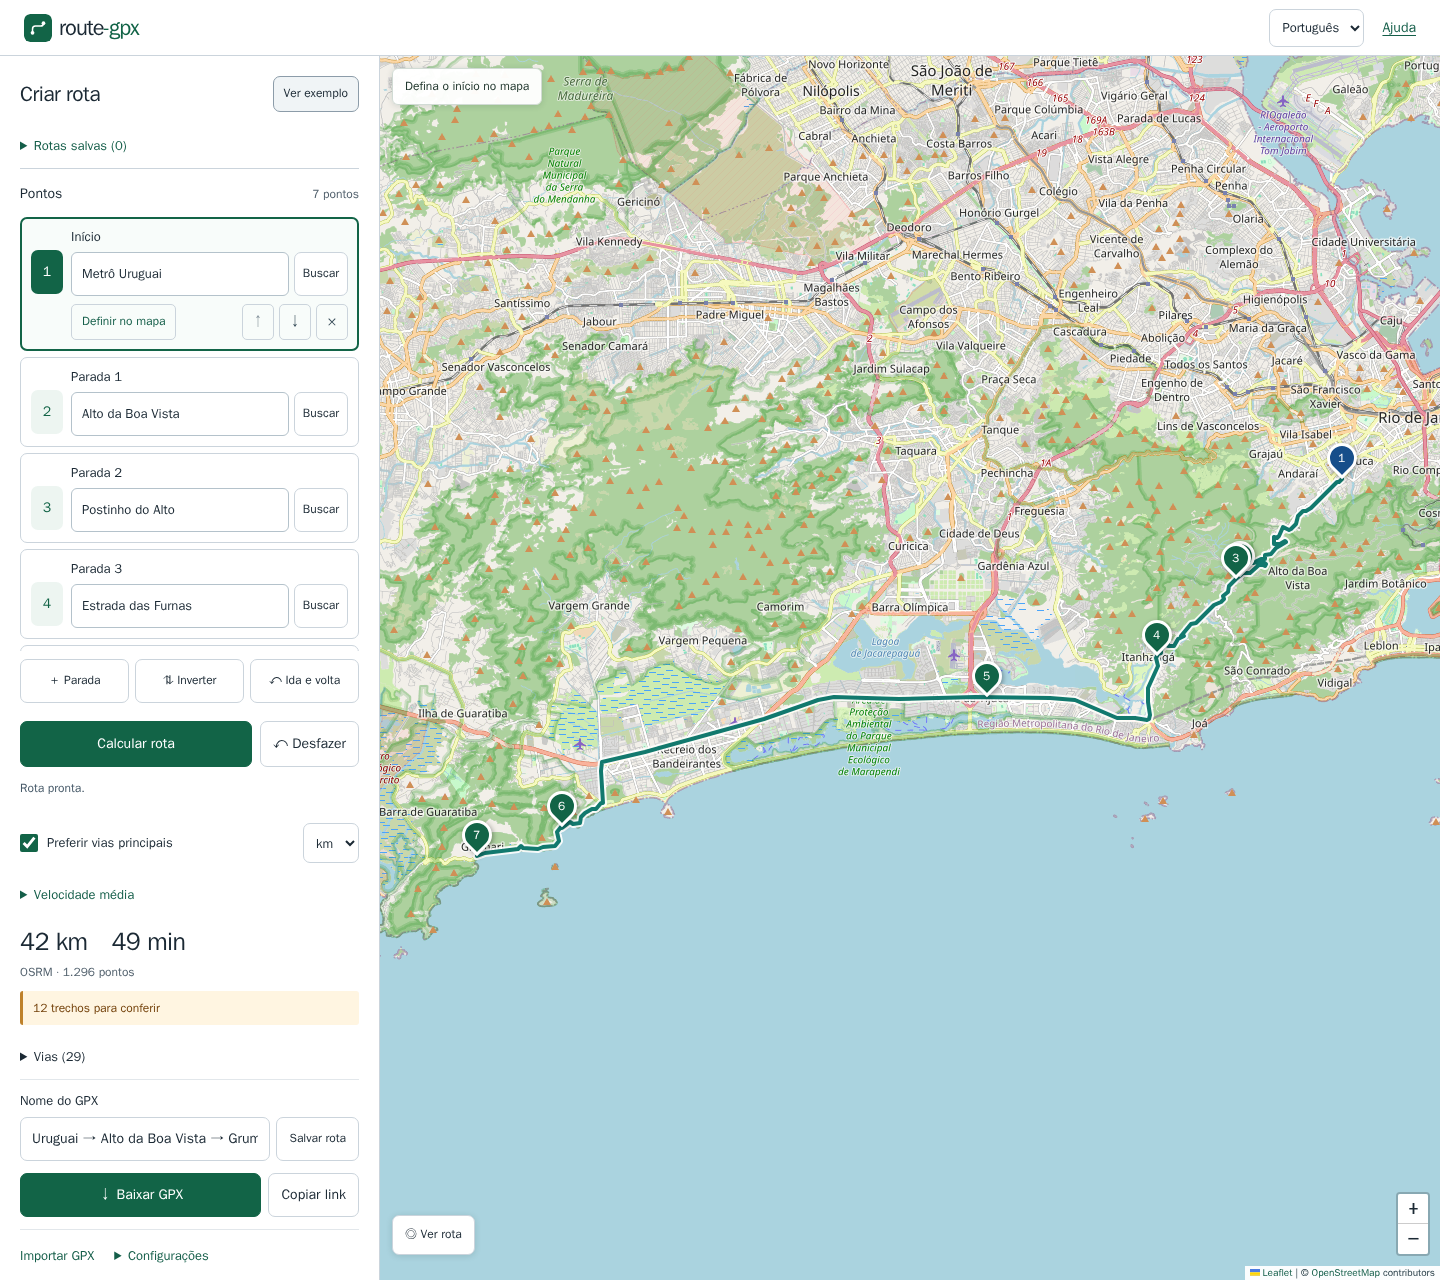
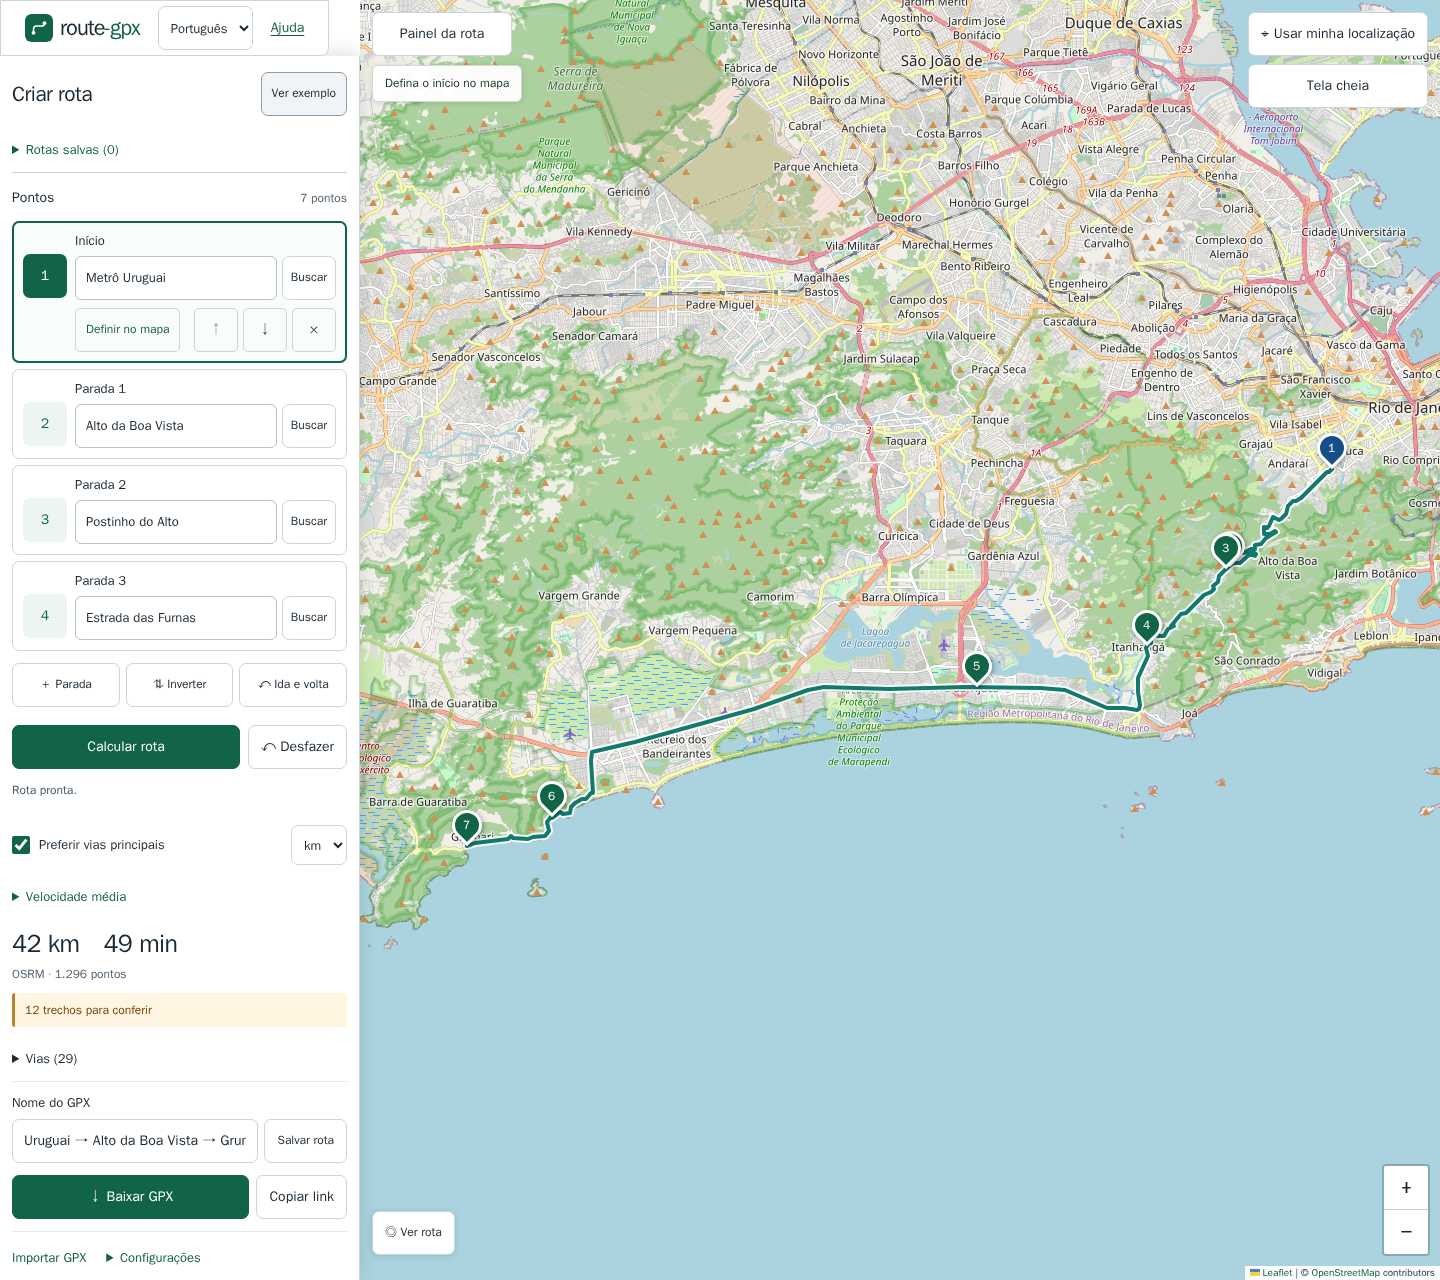
Document map location privacy and refresh screenshots

diff --git a/help.html b/help.html
@@ -90,6 +90,28 @@
           retries the calculation. Use Undo to restore a change, the arrows to
           reorder, or × to remove a stop.
         </p>
+        <h2>Map and location</h2>
+        <p>
+          Use Route panel to open or close the side panel or mobile bottom
+          sheet. Its state is remembered in this tab session. Full screen
+          expands the map; press it again or Escape to leave.
+        </p>
+        <p>
+          Use my location explains why GPS is needed before Continue requests
+          browser permission. Exact location only centers the map and displays
+          an accuracy circle. Set as start and Add as stop use a rounded
+          coordinate (about 100 m); review it before routing. If permission is
+          denied, open this site's permissions in your browser settings and
+          allow Location, then try again. You can keep using the map without
+          GPS.
+        </p>
+        <p>
+          The initial view prefers the URL route, then already authorized GPS,
+          approximate IP region, and browser timezone/language. To stop IP
+          requests, open Settings and disable Detect region by IP. The selected
+          provider receives your IP address. Exact GPS is never stored or sent
+          to routing services; tile requests reveal the visible area.
+        </p>
         <h2>Choose main roads</h2>
         <p>
           Add stops directly on the roads you want. The road list shows the
@@ -156,7 +178,8 @@
           No cookies, accounts or analytics. Coordinates, searches and visible
           map tiles are sent to the selected services. Links include your
           locations. The browser stores a search timestamp to coordinate tabs,
-          plus only the named routes you explicitly save in local IndexedDB. Do
+          and the named routes you explicitly save in local IndexedDB. It also
+          remembers region preferences and panel state without location data. Do
           not enter confidential addresses.
         </p>
         <p>
@@ -188,6 +211,31 @@
           dois pontos clicando no mapa. Arraste marcadores para ajustar.
           Calcular rota repete o cálculo. Use Desfazer para recuperar uma
           alteração, as setas para reordenar ou × para remover uma parada.
+        </p>
+        <h2>Mapa e localização</h2>
+        <p>
+          Use Painel da rota para abrir ou fechar o painel lateral ou a folha
+          inferior no celular. O estado é lembrado durante a sessão desta aba.
+          Tela cheia expande o mapa; toque novamente ou pressione Escape para
+          sair.
+        </p>
+        <p>
+          Usar minha localização explica por que o GPS é necessário antes de
+          Continuar solicitar a permissão do navegador. A posição exata só
+          centraliza o mapa e mostra um círculo de precisão. Definir como início
+          e Adicionar como parada usam uma coordenada arredondada (cerca de 100
+          m); confira antes de calcular. Se a permissão for negada, abra as
+          permissões deste site nas configurações do navegador e libere
+          Localização, depois tente novamente. O mapa continua utilizável sem
+          GPS.
+        </p>
+        <p>
+          A vista inicial prioriza a rota da URL, GPS já autorizado, região
+          aproximada por IP e fuso/idioma do navegador. Para impedir consultas
+          por IP, abra Configurações e desative Detectar região pelo IP. O
+          provedor escolhido recebe seu endereço IP. O GPS exato nunca é
+          armazenado nem enviado aos roteadores; as requisições de tiles revelam
+          a área visível.
         </p>
         <h2>Escolher vias principais</h2>
         <p>
@@ -257,8 +305,9 @@
           Sem cookies, cadastro ou analytics. Coordenadas, buscas e área visível
           do mapa são enviados aos serviços escolhidos. Links incluem seus
           locais. O navegador guarda um horário de busca para coordenar abas e
-          somente as rotas nomeadas que você salvar explicitamente no IndexedDB
-          local. Não informe endereços confidenciais.
+          as rotas nomeadas que você salvar explicitamente no IndexedDB local.
+          Também lembra preferências de região e estado do painel, sem dados de
+          localização. Não informe endereços confidenciais.
         </p>
         <p>
           <a href="https://operations.osmfoundation.org/policies/nominatim/"

diff --git a/README.pt-BR.md b/README.pt-BR.md
@@ -8,6 +8,7 @@ Planeje rotas e exporte o traçado completo em GPX.
 
 ## Recursos
 
+- Mapa em toda a janela com painel lateral recolhível no desktop, folha inferior no celular e controles de tela cheia. Localize-se com permissão e, se desejar, escolha um ponto aproximado para a rota.
 - Defina início, destino e paradas com endereços, coordenadas ou cliques no mapa.
 - Mova e reordene pontos, inverta a rota, adicione um retorno e desfaça alterações.
 - Confira distância, duração estimada e referências de vias; alterne entre quilômetros e milhas ou defina uma velocidade média.
@@ -34,6 +35,10 @@ Para instruções passo a passo, consulte a [página de Ajuda](https://t00ls-dev
 ## Serviços e privacidade
 
 O aplicativo usa tiles do OpenStreetMap, OSRM para roteamento, Valhalla como alternativa e Nominatim para busca de endereços. Mapas, buscas e roteamento exigem conexão à internet. Esses provedores recebem os locais necessários para cada requisição; links compartilhados e backups também contêm locais. O aplicativo não define cookies nem usa analytics.
+
+A vista inicial usa, em ordem: uma rota na URL, GPS já autorizado no navegador, região aproximada por IP e, depois, idioma e fuso horário do navegador (sem rede), com vista mundial como último recurso. **Usar minha localização** explica a finalidade antes de continuar para o pedido de permissão do navegador. As coordenadas exatas do GPS ficam apenas na memória, nunca são armazenadas em links, localStorage, sessionStorage ou IndexedDB e nunca são enviadas a servidores do projeto nem aos serviços de roteamento/busca. Escolher **Definir como início** ou **Adicionar como parada** cria explicitamente uma coordenada arredondada (grade de cerca de 100 m), que segue o comportamento normal de compartilhamento, roteamento e salvamento de rotas. Confira o ponto no mapa. O provedor de tiles recebe requisições da área visível do mapa, inclusive quando centralizada por GPS.
+
+**Detectar região pelo IP** vem ativado e pode ser desligado em **Configurações**; a URL do serviço é configurável. A [documentação do ipwho.is](https://ipwhois.io/documentation) e seus [termos](https://ipwhois.io/terms) oferecem um endpoint gratuito HTTPS, com CORS e sem chave. O limite publicado é de 1.000 requisições/dia, compartilhado por domínio para tráfego CORS do navegador; o uso comercial é permitido, sem garantia de disponibilidade. O navegador envia seu endereço IP ao provedor escolhido, como também faz com os servidores de tiles. O aplicativo faz no máximo uma tentativa por sessão da aba, com timeout de 3 s e sem repetições. Apenas um centro aproximado da cidade fica em cache na memória; um indicador de sessão evita novas requisições após recarregar. Falhas usam silenciosamente a vista sem rede. Preferências e estado do painel não contêm dados de localização.
 
 As buscas de endereços são explícitas, sem autocompletar. As requisições são espaçadas e usam cache quando aplicável, mas os serviços públicos têm capacidade limitada e nenhuma garantia de disponibilidade. Siga a [política do Nominatim](https://operations.osmfoundation.org/policies/nominatim/) e a [política de tiles](https://operations.osmfoundation.org/policies/tiles/); configure serviços próprios antes de ampliar o uso. O espaçamento no navegador não consegue impor um limite de uso compartilhado entre todos os dispositivos.
 
@@ -78,7 +83,7 @@ O GitHub Actions executa verificações em pull requests e pushes para `main`. B
 
 ## Créditos e licença
 
-Feito com [Leaflet](https://leafletjs.com/), [OSRM](https://project-osrm.org/), [Valhalla](https://valhalla.github.io/valhalla/), [Nominatim](https://nominatim.org/), [Vite](https://vite.dev/) e [Vitest](https://vitest.dev/). Dados do mapa © [colaboradores do OpenStreetMap](https://www.openstreetmap.org/copyright).
+Feito com [Leaflet](https://leafletjs.com/), [OSRM](https://project-osrm.org/), [Valhalla](https://valhalla.github.io/valhalla/), [Nominatim](https://nominatim.org/), [Vite](https://vite.dev/) e [Vitest](https://vitest.dev/). Região por IP pelo [ipwho.is](https://ipwhois.io/). Dados do mapa © [colaboradores do OpenStreetMap](https://www.openstreetmap.org/copyright).
 
 O código do aplicativo é licenciado sob [MIT](LICENSE). Dados e dependências mantêm suas próprias licenças. Sem afiliação com os operadores dos serviços públicos.
 

diff --git a/README.md b/README.md
@@ -8,6 +8,7 @@ Plan routes and export the complete track as GPX.
 
 ## Features
 
+- Full viewport map with a collapsible side panel on desktop, a bottom sheet on mobile and full screen controls. Locate yourself with permission, then optionally choose an approximate route point.
 - Define start, destination and stops with addresses, coordinates or map clicks.
 - Move and reorder points, reverse the route, add a return trip and undo changes.
 - Review distance, estimated duration and road references; switch between kilometers and miles or set an average speed.
@@ -34,6 +35,10 @@ For step-by-step instructions, use the [Help page](https://t00ls-dev.github.io/r
 ## Services and privacy
 
 The app uses OpenStreetMap tiles, OSRM for routing, Valhalla as a fallback and Nominatim for address search. Maps, search and routing require an internet connection. These providers receive the locations needed for each request; shared links and backups also contain locations. The application sets no cookies or analytics.
+
+The initial view uses, in order: a route in the URL, GPS already authorized in the browser, an approximate IP region, then browser language and timezone (offline), with a world view as the final fallback. **Use my location** explains the purpose before you continue to the browser permission prompt. Exact GPS coordinates stay in memory only, are never stored in links, localStorage, sessionStorage or IndexedDB, and are never sent to project servers or routing/search services. Choosing **Set as start** or **Add as stop** explicitly creates a rounded coordinate (about a 100 m grid) that follows normal route sharing, routing and saving behavior. Review it on the map. The tile provider receives requests for the visible map area, including when centered by GPS.
+
+**Detect region by IP** is enabled by default and can be disabled in **Settings**; its service URL is configurable. [ipwho.is documentation](https://ipwhois.io/documentation) and [terms](https://ipwhois.io/terms) provide a free HTTPS, CORS-enabled endpoint without a key. Its published limit is 1,000 requests/day, shared by domain for browser CORS traffic; commercial use is allowed, with no availability guarantee. The browser sends its IP address to the selected provider, as it also does to tile servers. The app makes at most one attempt per tab session, with a 3 s timeout and no retries. Only an approximate city center is cached in memory; a session flag prevents repeated requests after reload. Failure silently uses the offline view. Preferences and panel state contain no location data.
 
 Address searches are explicit, with no autocomplete. Requests are spaced and cached where applicable, but public services have limited capacity and no availability guarantee. Follow the [Nominatim policy](https://operations.osmfoundation.org/policies/nominatim/) and [tile policy](https://operations.osmfoundation.org/policies/tiles/); configure your own services before scaling usage. Browser-side spacing cannot enforce a shared usage limit across all devices.
 
@@ -78,7 +83,7 @@ GitHub Actions runs checks on pull requests and pushes to `main`. Successful bui
 
 ## Credits and license
 
-Built with [Leaflet](https://leafletjs.com/), [OSRM](https://project-osrm.org/), [Valhalla](https://valhalla.github.io/valhalla/), [Nominatim](https://nominatim.org/), [Vite](https://vite.dev/) and [Vitest](https://vitest.dev/). Map data © [OpenStreetMap contributors](https://www.openstreetmap.org/copyright).
+Built with [Leaflet](https://leafletjs.com/), [OSRM](https://project-osrm.org/), [Valhalla](https://valhalla.github.io/valhalla/), [Nominatim](https://nominatim.org/), [Vite](https://vite.dev/) and [Vitest](https://vitest.dev/). IP region by [ipwho.is](https://ipwhois.io/). Map data © [OpenStreetMap contributors](https://www.openstreetmap.org/copyright).
 
 Application code is licensed under [MIT](LICENSE). Data and dependencies retain their own licenses. No affiliation with the public service operators.
 
